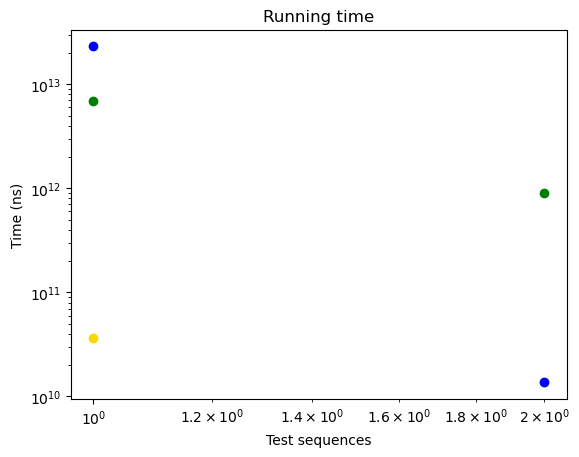
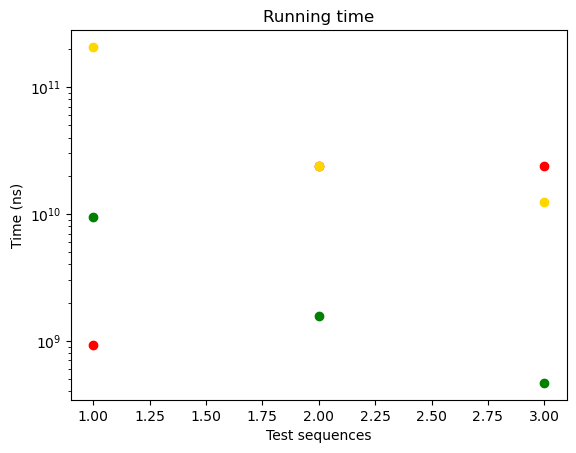
Updated test

diff --git a/test_sequences.py b/test_sequences.py
@@ -1,3 +1,4 @@
+# fibWord: Taking from https://www.geeksforgeeks.org/fibonacci-word/
 def fibWord(n):
     Sn_1 = "a"
     Sn = "ab"
@@ -10,7 +11,7 @@ def fibWord(n):
 
 
 def defined_test_sequences():
-    # size: 10946
+    # size: 6765
     test_seq = []
 
     a = ("aaaaaaaaaaaaaaaaaaaaaaaaaaaaaaaaaaaaaaaaaaaaaaaaaaaaaaaaaaaaaaaaaaaaaaaaaaaaaaaaaaaaaaaaaaaaaaaaaaaa"
@@ -33,65 +34,130 @@ def defined_test_sequences():
          "aaaaaaaaaaaaaaaaaaaaaaaaaaaaaaaaaaaaaaaaaaaaaaaaaaaaaaaaaaaaaaaaaaaaaaaaaaaaaaaaaaaaaaaaaaaaaaaaaaaa"
          "aaaaaaaaaaaaaaaaaaaaaaaaaaaaaaaaaaaaaaaaaaaaaaaaaaaaaaaaaaaaaaaaaaaaaaaaaaaaaaaaaaaaaaaaaaaaaaaaaaaa"
          "aaaaaaaaaaaaaaaaaaaaaaaaaaaaaaaaaaaaaaaaaaaaaaaaaaaaaaaaaaaaaaaaaaaaaaaaaaaaaaaaaaaaaaaaaaaaaaaaaaaa"
-         "aaaaaaaaaaaaaaaaaaaaaaaaaaaaaaaaaaaaaaaaaaaaaaaaaaaaaaaaaaaaaaaaaaaaaaaaaaaaaaaaaaaaaaaaaaaaaaaaaaaa"
-         "aaaaaaaaaaaaaaaaaaaaaaaaaaaaaaaaaaaaaaaaaaaaaaaaaaaaaaaaaaaaaaaaaaaaaaaaaaaaaaaaaaaaaaaaaaaaaaaaaaaa"
-         "aaaaaaaaaaaaaaaaaaaaaaaaaaaaaaaaaaaaaaaaaaaaaaaaaaaaaaaaaaaaaaaaaaaaaaaaaaaaaaaaaaaaaaaaaaaaaaaaaaaa"
-         "aaaaaaaaaaaaaaaaaaaaaaaaaaaaaaaaaaaaaaaaaaaaaaaaaaaaaaaaaaaaaaaaaaaaaaaaaaaaaaaaaaaaaaaaaaaaaaaaaaaa"
-         "aaaaaaaaaaaaaaaaaaaaaaaaaaaaaaaaaaaaaaaaaaaaaaaaaaaaaaaaaaaaaaaaaaaaaaaaaaaaaaaaaaaaaaaaaaaaaaaaaaaa"
-         "aaaaaaaaaaaaaaaaaaaaaaaaaaaaaaaaaaaaaaaaaaaaaaaaaaaaaaaaaaaaaaaaaaaaaaaaaaaaaaaaaaaaaaaaaaaaaaaaaaaa"
-         "aaaaaaaaaaaaaaaaaaaaaaaaaaaaaaaaaaaaaaaaaaaaaaaaaaaaaaaaaaaaaaaaaaaaaaaaaaaaaaaaaaaaaaaaaaaaaaaaaaaa"
-         "aaaaaaaaaaaaaaaaaaaaaaaaaaaaaaaaaaaaaaaaaaaaaaaaaaaaaaaaaaaaaaaaaaaaaaaaaaaaaaaaaaaaaaaaaaaaaaaaaaaa"
-         "aaaaaaaaaaaaaaaaaaaaaaaaaaaaaaaaaaaaaaaaaaaaaaaaaaaaaaaaaaaaaaaaaaaaaaaaaaaaaaaaaaaaaaaaaaaaaaaaaaaa"
-         "aaaaaaaaaaaaaaaaaaaaaaaaaaaaaaaaaaaaaaaaaaaaaaaaaaaaaaaaaaaaaaaaaaaaaaaaaaaaaaaaaaaaaaaaaaaaaaaaaaaa"
-         "aaaaaaaaaaaaaaaaaaaaaaaaaaaaaaaaaaaaaaaaaaaaaaaaaaaaaaaaaaaaaaaaaaaaaaaaaaaaaaaaaaaaaaaaaaaaaaaaaaaa"
-         "aaaaaaaaaaaaaaaaaaaaaaaaaaaaaaaaaaaaaaaaaaaaaaaaaaaaaaaaaaaaaaaaaaaaaaaaaaaaaaaaaaaaaaaaaaaaaaaaaaaa"
-         "aaaaaaaaaaaaaaaaaaaaaaaaaaaaaaaaaaaaaaaaaaaaaaaaaaaaaaaaaaaaaaaaaaaaaaaaaaaaaaaaaaaaaaaaaaaaaaaaaaaa"
-         "aaaaaaaaaaaaaaaaaaaaaaaaaaaaaaaaaaaaaaaaaaaaaaaaaaaaaaaaaaaaaaaaaaaaaaaaaaaaaaaaaaaaaaaaaaaaaaaaaaaa"
-         "aaaaaaaaaaaaaaaaaaaaaaaaaaaaaaaaaaaaaaaaaaaaaaaaaaaaaaaaaaaaaaaaaaaaaaaaaaaaaaaaaaaaaaaaaaaaaaaaaaaa"
-         "aaaaaaaaaaaaaaaaaaaaaaaaaaaaaaaaaaaaaaaaaaaaaaaaaaaaaaaaaaaaaaaaaaaaaaaaaaaaaaaaaaaaaaaaaaaaaaaaaaaa"
-         "aaaaaaaaaaaaaaaaaaaaaaaaaaaaaaaaaaaaaaaaaaaaaaaaaaaaaaaaaaaaaaaaaaaaaaaaaaaaaaaaaaaaaaaaaaaaaaaaaaaa"
-         "aaaaaaaaaaaaaaaaaaaaaaaaaaaaaaaaaaaaaaaaaaaaaaaaaaaaaaaaaaaaaaaaaaaaaaaaaaaaaaaaaaaaaaaaaaaaaaaaaaaa"
-         "aaaaaaaaaaaaaaaaaaaaaaaaaaaaaaaaaaaaaaaaaaaaaaaaaaaaaaaaaaaaaaaaaaaaaaaaaaaaaaaaaaaaaaaaaaaaaaaaaaaa"
-         "aaaaaaaaaaaaaaaaaaaaaaaaaaaaaaaaaaaaaaaaaaaaaaaaaaaaaaaaaaaaaaaaaaaaaaaaaaaaaaaaaaaaaaaaaaaaaaaaaaaa"
-         "aaaaaaaaaaaaaaaaaaaaaaaaaaaaaaaaaaaaaaaaaaaaaaaaaaaaaaaaaaaaaaaaaaaaaaaaaaaaaaaaaaaaaaaaaaaaaaaaaaaa"
-         "aaaaaaaaaaaaaaaaaaaaaaaaaaaaaaaaaaaaaaaaaaaaaaaaaaaaaaaaaaaaaaaaaaaaaaaaaaaaaaaaaaaaaaaaaaaaaaaaaaaa"
-         "aaaaaaaaaaaaaaaaaaaaaaaaaaaaaaaaaaaaaaaaaaaaaaaaaaaaaaaaaaaaaaaaaaaaaaaaaaaaaaaaaaaaaaaaaaaaaaaaaaaa"
-         "aaaaaaaaaaaaaaaaaaaaaaaaaaaaaaaaaaaaaaaaaaaaaaaaaaaaaaaaaaaaaaaaaaaaaaaaaaaaaaaaaaaaaaaaaaaaaaaaaaaa"
-         "aaaaaaaaaaaaaaaaaaaaaaaaaaaaaaaaaaaaaaaaaaaaaaaaaaaaaaaaaaaaaaaaaaaaaaaaaaaaaaaaaaaaaaaaaaaaaaaaaaaa"
-         "aaaaaaaaaaaaaaaaaaaaaaaaaaaaaaaaaaaaaaaaaaaaaaaaaaaaaaaaaaaaaaaaaaaaaaaaaaaaaaaaaaaaaaaaaaaaaaaaaaaa"
-         "aaaaaaaaaaaaaaaaaaaaaaaaaaaaaaaaaaaaaaaaaaaaaaaaaaaaaaaaaaaaaaaaaaaaaaaaaaaaaaaaaaaaaaaaaaaaaaaaaaaa"
-         "aaaaaaaaaaaaaaaaaaaaaaaaaaaaaaaaaaaaaaaaaaaaaaaaaaaaaaaaaaaaaaaaaaaaaaaaaaaaaaaaaaaaaaaaaaaaaaaaaaaa"
-         "aaaaaaaaaaaaaaaaaaaaaaaaaaaaaaaaaaaaaaaaaaaaaaaaaaaaaaaaaaaaaaaaaaaaaaaaaaaaaaaaaaaaaaaaaaaaaaaaaaaa"
-         "aaaaaaaaaaaaaaaaaaaaaaaaaaaaaaaaaaaaaaaaaaaaaaaaaaaaaaaaaaaaaaaaaaaaaaaaaaaaaaaaaaaaaaaaaaaaaaaaaaaa"
-         "aaaaaaaaaaaaaaaaaaaaaaaaaaaaaaaaaaaaaaaaaaaaaaaaaaaaaaaaaaaaaaaaaaaaaaaaaaaaaaaaaaaaaaaaaaaaaaaaaaaa"
-         "aaaaaaaaaaaaaaaaaaaaaaaaaaaaaaaaaaaaaaaaaaaaaaaaaaaaaaaaaaaaaaaaaaaaaaaaaaaaaaaaaaaaaaaaaaaaaaaaaaaa"
-         "aaaaaaaaaaaaaaaaaaaaaaaaaaaaaaaaaaaaaaaaaaaaaaaaaaaaaaaaaaaaaaaaaaaaaaaaaaaaaaaaaaaaaaaaaaaaaaaaaaaa"
-         "aaaaaaaaaaaaaaaaaaaaaaaaaaaaaaaaaaaaaaaaaaaaaaaaaaaaaaaaaaaaaaaaaaaaaaaaaaaaaaaaaaaaaaaaaaaaaaaaaaaa"
-         "aaaaaaaaaaaaaaaaaaaaaaaaaaaaaaaaaaaaaaaaaaaaaaaaaaaaaaaaaaaaaaaaaaaaaaaaaaaaaaaaaaaaaaaaaaaaaaaaaaaa"
-         "aaaaaaaaaaaaaaaaaaaaaaaaaaaaaaaaaaaaaaaaaaaaaaaaaaaaaaaaaaaaaaaaaaaaaaaaaaaaaaaaaaaaaaaaaaaaaaaaaaaa"
-         "aaaaaaaaaaaaaaaaaaaaaaaaaaaaaaaaaaaaaaaaaaaaaaaaaaaaaaaaaaaaaaaaaaaaaaaaaaaaaaaaaaaaaaaaaaaaaaaaaaaa"
-         "aaaaaaaaaaaaaaaaaaaaaaaaaaaaaaaaaaaaaaaaaaaaaaaaaaaaaaaaaaaaaaaaaaaaaaaaaaaaaaaaaaaaaaaaaaaaaaaaaaaa"
-         "aaaaaaaaaaaaaaaaaaaaaaaaaaaaaaaaaaaaaaaaaaaaaaaaaaaaaaaaaaaaaaaaaaaaaaaaaaaaaaaaaaaaaaaaaaaaaaaaaaaa"
-         "aaaaaaaaaaaaaaaaaaaaaaaaaaaaaaaaaaaaaaaaaaaaaaaaaaaaaaaaaaaaaaaaaaaaaaaaaaaaaaaaaaaaaaaaaaaaaaaaaaaa"
-         "aaaaaaaaaaaaaaaaaaaaaaaaaaaaaaaaaaaaaaaaaaaaaaaaaaaaaaaaaaaaaaaaaaaaaaaaaaaaaaaaaaaaaaaaaaaaaaaaaaaa"
-         "aaaaaaaaaaaaaaaaaaaaaaaaaaaaaaaaaaaaaaaaaaaaaaaaaaaaaaaaaaaaaaaaaaaaaaaaaaaaaaaaaaaaaaaaaaaaaaaaaaaa"
-         "aaaaaaaaaaaaaaaaaaaaaaaaaaaaaaaaaaaaaaaaaaaaaaaaaaaaaaaaaaaaaaaaaaaaaaaaaaaaaaaaaaaaaaaaaaaaaaaaaaaa"
-         "aaaaaaaaaaaaaaaaaaaaaaaaaaaaaaaaaaaaaaaaaaaaaaaaaaaaaaaaaaaaaaaaaaaaaaaaaaaaaaaaaaaaaaaaaaaaaaaaaaaa"
-         "aaaaaaaaaaaaaaaaaaaaaaaaaaaaaaaaaaaaaaaaaaaaaaaaaaaaaaaaaaaaaaaaaaaaaaaaaaaaaaaaaaaaaaaaaaaaaaaaaaaa"
-         "aaaaaaaaaaaaaaaaaaaaaaaaaaaaaaaaaaaaaaaaaaaaaaaaaaaaaaaaaaaaaaaaaaaaaaaaaaaaaaaaaaaaaaaaaaaaaaaaaaaa"
-         "aaaaaaaaaaaaaaaaaaaaaaaaaaaaaaaaaaaaaaaaaaaaaaaaaaaaaaaaaaaaaaaaaaaaaaaaaaaaaaaaaaaaaaaaaaaaaaaaaaaa"
-         "aaaaaaaaaaaaaaaaaaaaaaaaaaaaaaaaaaaaaaaaaaaaaaaaaaaaaaaaaaaaaaaaa"
-        )
+         )
     test_seq.append(a)
 
-    fibo = fibWord(18)
-    print(len(fibo))
-    print(len(a))
+    fibo = fibWord(19)
     test_seq.append(fibo)
+
+    rand = ("GGTGTACTCAGCTCACTGTCTTCCCCAAAACCCGGATCGATGATGTCTTTTGAACGAGGTGGACGGATGCTGGCAGCAGCTGGGGGCACCCGCTGAGTTT"
+            "TGATGGCCCGGAACCCGGCAAGAGGTGGACGGATGCTGGCAGCAGCTGCCGTGCTCGTCTCTCTCCTGCCAATGCTTGCCCGGCATACAGAGGTGAACCC"
+            "AGCATCACCGGCGAATGGCATTGTCTTCCCCAAAACCCGGACGGCAAGAGGTGGACGGATGCTGGCAGCAGCTGCCGTAACAAGCCCGCTGAGTTTACGC"
+            "GTCGTGCTTGTCGGACAGGCAGGAGAACCAGAGGTGGACGGATGCTGGCAGCAGCTGCCGTGCGGCTCCCGTGGTGACGTCAGGCGGGGGCACCCGCCGC"
+            "GCTGCCGTGCGAATCCCCCATGTTGTACTCAGCTCACCGGGGGCATTGCTCCCGTGGTGACCCTGATTTGTTGTCCGTGAACCATCGAGTCTTTCACCGC"
+            "CATCACCGGCGAATGGCATTGTCTTCCCAGCAGCTGCCGTGCGAATCCCCCATGTTGGAAGGATCATTGATGAGACCGTGGAATAAACACGGGAATCTTG"
+            "TTGATGGCCCGGAACCCGGCAAGAGGTGGACGGATGCTGGCAGCAGCTGCCGTGCGAATCCCCCATGTTCTTTTGAACGCAAGTTGTCCATGGCGCTGAC"
+            "ATCCGGAGGACCGGTGTACTCAGCTCACCGGGGGCATTTGGCTCTTTGCATCGGATGGAAGGACGCAGCGAAATGCGATCGGATGTGAAAGATTGGCCCA"
+            "GATGGCCCGGAACCCGGCAAGAGGTGGACGGATGCTGGCAGCAGCTGCCGTGCGCGCAAACGGGAATCTTGGCTCTTTGCATCGGATGGAAGGACGCAGC"
+            "GAAATGCGATAAGTGGTGTGAATTGCAAGATCCCGTGAACCATCGAGTCCCCAGGTCAGGCGGGGGCACCCGCTGATGGACGGATGCTGGCAGCAGCTGC"
+            "CGGAGCGGCGGCGTGCTGTCGCGTGCCCAATGAATTTTGATGACTCTCGCAAACGGGAATCTTGGCTCTTTGCATCGGATGGAAGGACGCAGCAACCCGG"
+            "GGTTTCCGTAGGTGAACCTGCGGAAGGATCATTGATGAGACCGTGGAATAAACGATCGAGTGAATCCGGAGGACCGGTTTTGCATCGGATGGAAGGACGC"
+            "AACGCAAGTTGCGCCCGAGGCCATCAGGCTAAGGGCACGCCTGCTTGGGCGTCGCGCTTCGTCTCTCTCCTGCCAATGCTTGCCCGGCATACATCTTGGC"
+            "GACCCTGATTTGTTGTTGGGCCGCCTCGGGAGCGTCCATGGCGGGTTTGAACCTCTAGCCCGGCGCAGTTTGGGCGCCAAGCGTCGCGCTTCGTCTCTCT"
+            "CTGCTTGGGCGTCGCGCTTCGTCTCTCTCCTGCCAATGCTTGCCCGGCATACAGCCAGGCCGGCGTGGTGCGGATGTGAAAGATTGGCCCCTTGTGCCTA"
+            "GGTGCTTGTGCCTAGGTGCGGCGGGTCCAAGAGCTGGTGTTTTGATGGCCCGGAACCCGGCAAGAGGTGGACGGGCGGAAGGATCATTGAACCCGTGCCA"
+            "GGGCGTCGCGCTTCGTCTCTCTCCTGCCAATGCTTGCCCGGCATACAGCCAGGCCGGCGTGGTGCGGATGTGAAAGATTGGCCCCTTGTGCCTAGGTGCG"
+            "GCGGGTCCAAGAGCTAATTGCAAGATCCCGTGAACCATCGAGTCTTTTGAACGCAAGTTGCGCCCGAGGCCATCAGGCTAAGGGCCGTAACAAGGTTTCC"
+            "TGTCTTCCCCAAAACCCGGAGCGGCGGCGTGCTGTCGCGTGCCCAATGAATTTTGATGACTCTCGCAAACGGGGTCTCTCTCCTGCCAATGCTTGCCCGG"
+            "GGTGTGAATTGCAAGATCCCGTCCCCAAAACCCGGAGCGGCGGCGTGCTGTCGCGTGACGGATGCTGGCAGCAGCTGCCGTGCGAATCCATGGAGGGCGG"
+            "TCTTTGCATCGGATGGAAGGACGCAGCGAAATGCGATAAGTGGTGTGAATTGCAAGATCCCGTGGCGTGGTGCGGATGTGAAAGATTGGCCCCTTGTGCC"
+            "TAGGTGTGGCATTGTCTTCCCCAAAACCCGGAGCGGCGGCGTGCTGTCGCGTGCCCAATGAATTTTGATGACTCTCGCAAACGGGAATCCACGCCTGCTT"
+            "GGGCGTCGCGCTTCGTCTCTCTCCTGCCAATGCTTGCCCGGCATACAGCCAGGCCGGCGTGATAAACGATCGAGTGGCGAATGGCATTGTCTTCGGGAAT"
+            "TGGCCCCTTGTGCCTAGGTGCGGCGGGTCCAAGAGCTGGTGTTTTGATGGCCCGGAACCCGGCAAGAGGTGGACGGATGCTGGCAGCAGCTGCCGTGCGA"
+            "ATCCCCCATGTTGTCGTGCTTGTCGGACAGGCAGGAGAACCCTTCCGAACCCCAATGGAATCTTGGCTCTTTGCATCGGATGGAAGGACGCAGCGAAATG"
+            "CGATAAGTGGTGTGAATTGCAAGATCCCGTGGTCCAAGAGCTGGTGTTTTGATGGCCCGGAACCCGGCAAGAGGTGGACGGATGCTGGCAGCAGCTGCCG"
+            "TGCGAATCCCCGCCATTCGGATGTGACCCCAGGTCAGGCGGGGGCACCCGCTGAGTTTACGCGCGCCCGAGGCCATCAGGCTAAGGGCACGCCTGCTTGG"
+            "GCGTCGCGCTTCGTCTCTCTCCTGCCAATGCTTGCCCGGCATGCGGCGGCGTGCTGTCGCGTGCCCAATGAATTTTGATGACTCTCGCAAACGGGAATCT"
+            "TGGCTCTTTGCATTGGTGACCCTGATTTGTTGTTGGGCCGCCTCGGGAGCGTGGACGGATGCTGGCAGCAGCTGCCGTGCGAATCCCCCATGTTGTCGTG"
+            "CTTGTCGGACAGGCAGGAGAACCCCTTTTGAACGCAAGTTGCGCCCGAGGCCATCAGGCTAAGGGCACGCCTGCTTGGGCGTCGCGCTTCGTCTCTCTCC"
+            "TGCCAATGCTGCCTCGGGAGCGTCCATGGCGGGTTTGAACCTCTAGCCCGGCGCAGTTTGGGCGCCAAGCCATATGAAAGCGGAACCCGGCAAGAGGTGG"
+            "ACGGATGCTGGCAGCAGCTGCCGTGCGAATCCCCCATGTTGTCGTCGCGCTTCGTCTCTCTCCTGCCAATGCTTGCCCGGCATACAGCCAGGCCGGCGTG"
+            "GTGCGGATGTGAAAGATTGGCCCCTTGTGCCTGCAAGAGGTGGACGGATGCTGGCAGCAGCTGCCGTGCGAATCCCCCATGTTGTCGTGCTTGTCGGACA"
+            "GTCCGTAGGTGAACCTGCGGAAGGATCATTGATGAGACCGTGGAATAAACGATCGAGTGAATCCGGAGGACCGGTGTACTCAGCTCACCGGGGGCATTGC"
+            "TCCCGTGGTGACCCTGATTTGCTCTAGCCCGGCGCAGTTTGGGCGCCAAGCCATATGAAAGCATCACCGGCGAATGGCATTGTCTTCCCCAAAACCCGGA"
+            "GCGGCGGCGTGCTGTCGCGTGCTTTTGATGACTCTCGCAAACGGGAATCTTGGCTCTTTGCATCGGATGGAAGGACGCAGCGAAATGCGATAAGTGGTGT"
+            "GAATTGCAAGATCCCGGCCATCAGGCTAAGGGCACGCCTGCTTGGGCGTCGCGCTTCGTCTCTCTCCTGCCAATGCTTGCCCGGCATACAGCCAGGCCGG"
+            "CGTGGTGCGGATGTGAAAGATTGGTGCTGGCAGCAGCTGCCGTGCGAATCCCCCATGTTGTCGTGCTTGTCGGACAGGCAGGAGAACCCTTCCGAACCCC"
+            "AATGGAGGCAGGTCAGGCGGGGGCACCCGCTGAGTTTACGCAGCATCACCGGCGAATGGCATTGTCTTCCCCAAAACCCGGAGCGGCGGCGTGCTGTCGC"
+            "GTGCCCAATGAAAGGTGAACCTGCGGAAGGATCATTGATGAGACCGTGGAATAAACGATCGAGTGAATCCGGAGGACCGGTGTACTCAGCTCACCGGGGG"
+            "CATTGCTCCCGTGGTGACCCTGATTTGTTGTTGGGCCGCCTCGGGAGCGTCCATGCGCCCGAGGCCATCAGGCTAAGGGCACGCCTGCTTGGGCGTCGCG"
+            "CTTCGTCTCTCTCCTGCCAATGCTTGCCGGTGCGGCGGGTCCAAGAGCTGGTGTTTTGATGGCCCGGAACCCGGCAAGAGGTGGACGGATGCTGGCAGCA"
+            "GCTGCCGTGCGAATTGATGGCCCGGAACCCGGCAAGAGGTGGACGGATGCTGGCAGCAGCTGCCGTGCGAATCCCCCATGTTGTCAAACGGGATTGGGCG"
+            "TCGCGCAGCCATATGAAAGCATCACCGGCGAATGGCATTGTCTTCCCCAAAACCCGGAGCGGCGGCGTGCTGTCGCGTGCCCAATGAATTTTGATGACTC"
+            "TCGCAAACGGGAATCTTGGCTCTTTGCATCGGATGGAAGGACGCAGGAACCATCGAGTCTTTTGAACGCAAGTTGCGCCCGAGGCCATCAGGCTAAGGGC"
+            "ACGCCTGCTTGGGCGTCGCGCTTCGTCTCTCTCCTGCCAATGCTTGCCCGGCATACAGCCAGGCCGGCGTGGTGCGGATGTGAAAGCAAGGTTTCCGTAG"
+            "GTGAACCTGCGGAAGGATCATTGATGAGACCGTGGAATAAACGATCGAGTGAATCCGGAGGACCGGTGTACTCAGCTCACCGGGGGCATTGCTCCCGTGG"
+            "TGACCCTGATTTGTTGTTGGGCCGCCTCGGGAGCGTCCATGGCATGCTGGCAGCAGCTGCCGTGCGAATCCCCCATGTTGTCGTGCTTGTCGGACAGGCA"
+            "GGAGAACCCTTCCGAACCATCGAGTCTTTTGAACGCAAGTTGCGCCCGAGGCCATCAGGCTAAGGGCACGCCTGCTTGGGCGTCGCGCTTCGTCTCTCTC"
+            "CTAGCCCGGCGCAGTTTGGGCGCCAAGCCATATGAAAGCATCACCGGCGAATGGCATTGTCTTCCCCAAAACCCGGAGCGGCGGCGTGCTGTCGCGTGCC"
+            "CAATGAATTTTGATGACTCTCGCAAACGGGAATCTTGGCTCATACAGCCAGGCCGGCGTGGTGCGGATGTGAAAGATTGGCCCCTTGTGCCTAGGTGCGG"
+            "CGGGTCCAAGAGCGTCCATGGCGGGTTTGAACCTCTAGCCCGGCGCAGTTTGGGCGCCAAGCCATATGAAAGCATCACCGGCGAATGGCATTGTCTTCCC"
+            "CAAAACCCGGAGCGGCGGCGTGCTGTCGCGTGCCCAATGAATTTTGATGACTCTCGCAAACGGGAATCTTGGCTCTTTGCTTCGTCTCTCTCCTGCCAAT"
+            "GCTTGCCCGGCATACAGCCAGGCCGGCGTGGTGCGGATGTGAAAGATGCAGCTGCCGTGCGAATCCCCCATGTTGTCGTGCTTGTCGGACAGGCAGGAGA"
+            "ACCCTTCCGAACCCCAATGCGTAACAAGGTTTCCGTAGGTGAACCTGCGGAAGGATCATTGATGAGACCGTGGAATAAACGATCGAGTGAATCCGGTCGT"
+            "GCTTGTCGGACAGGCAGGAGAACCCTTCCGAACCCCAATGGAGGGCGGTTGACCGCCATTCGGATGATTTTGATGACTCTCGCAAACGGGAATCTTGGCT"
+            "CTTTGCATCGGATGGAAGGACGCAGCGAAATGCGATAAGATCCCGTGAACCATCGAGTCTTTTGAACGCAAGTTGCGCCCGAGGCCATCAGGCTAAGGGC"
+            "ACGCCTGAGCTGGTGTTTTGATGGCCCGGAACCCGGCAAGAGGTGGACGGATGCTGGCAGCTGCCGTGCGAATCCCCCATGTTGTCGTGCTTGTCGGACA"
+            "GGCAGGAGAACCCTTCCGAACCCCAATGGACATGGCGGGTTTGAACCTCTAGCCCGGCGCAGTTTGGGCGCCAAGCCATATGAAAGCATCACCGGCGAAT"
+            "GAACCTGCGGAAGGATCATTGATGAGACCGTGGAATAAACGATCGAGTGAATCCGGAGGACCGGTGTACTCAGCTCACCGGGGGCACTGCCAATGCTTGC"
+            "CCGGCATACAGCCAGGCCGGCGTGGTGCGGATGTGAAAGATTGGCCCCTTGTGCCTGCAGCAGCTGCCGTGCGAATCCCCCATGTTGTCGTGCTTGTCGG"
+            "ACAGGCAGGAGAACCCTTCCGAACCCCAATGACCCGGAGCGGCGGCGTGCTGTGCCCAATGAATTTTGATGACTCTCGCAAACGGGAATCTTGGCTGCGG"
+            "TCTTTGCATCGGATGGAAGACCATCGAGTCTTTTGAACGCAAGTTGCGCCCGAGGCCATCAGGCTAAGGGCACGCCTGCTTGGGCGTCGCGCTTCGTCTC"
+            "TCTCCTGCCAATGCTTGCCCGGCATACAGCCAGGCCGGCGTGGTGCGGATGTGAAAGATTGGCCCCTTGTGCCTCGAATCCCCCATGTTGTCGTGCTTGT"
+            "CGGACAGGCAGCATTGATGAGACCGTGGAATAAACGATCGAGTGAATCCGGAGGACCGGTGTACTCAGCTCACCGGGGGCATCACCGGCGAATGGCATTG"
+            "TCTTCCCCAAAACCCGGAGCGGCGGCGTGCTGTCGCGTGCCCAATGAATTTTGATGACTCTCGCAAACGGGAATCTTGGCTCTTTGCATCGGATGGAAGG"
+            "ACGCAGCGAAATGCGATAAGTGGTGTGAATTGCAAGATGCAAGTTGCGCCCGAGGCCATCAGGCTAAGGGCACGCCTGCTTGGGCGTCGCGCTTCGTCTC"
+            "TCTCCTGCCAATGCTTGCCCGGCATACAGCCAGGCCGGCGTGGTGCGGATGTGAAGTGCCTAGGTGCGGCCATTGATGAGACCGTGGAATAAACGATCGA"
+            "GTGAATCCGGTCGTCTTTGCATCGGATGGAAGGACGCAGCGAAATGCGATAAGATCCCGTGAACCATCGAGTCTTTTGAATTGGTGCTGGCAGCAGCTGC"
+            "CGTGCGAATCCCCCATGTTGTCGTGCTTGTCGGACAGGCAGGAGAACCCTTCCGAACCCCCTTCGTCTCTCTCCTGCCAATGCTAGGCGGGGGCACCCGC"
+            "TGAGTTTACGCAGCATCACCGGCGAATGGCATTGTCTTCCCCAAAACCCGGAGCGGCGGCGTGCTGTCGCGCTGCCGTGCGAATTGAGAATTTTGATGAC"
+            "GTGCCCAATGAAAGGTGAACCTGCGGAAGGATCATTGATGAGACCGTGGAATAAACGATCGAGTGAATCCGGAGGACCGGTGTACTCAGCTCACCGGGGG"
+            "CATTGCTCCCGTGGTGACCCTGATTTGTTGTTGGGCCGCCTCGGGAGCGTCCATGCGCCCGAGGCCATCAGGCTAAGGGCACGCCTGCTTGGGCGTCGCG"
+            "CTTCGTCTCTCTCCTGCCAATGCTTGCCGGTGCGGCGGGTCCAAGAGCTGGTGTTTTGATGGCCCGGAACCCGGCAAGAGGTGGACGGATGCTGGCAGCA"
+            "AATGGAGGCAGGTCAGGCGGGGGCACCCGCTGAGTTTACGCAGCATCACCGGCGAATGGCATTGTCTTCCCCAAAACCCGGAGCGGCGGCGTGCTGTCGC"
+            "GTGCCCAATGAAAGGTGAACCTGCGGAAGGATCATTGATGAGACCGTGGAATAAACGATCGAGTGAATCCGGAGGACCGGTGTACTCAGCTCACCGGGGG"
+            "CATTGCTCCCGTGGTGACCCTGATTTGTTGTTGGGCCGCCTCGGGAGCGTCCATGCGCCCGAGGCCATCAGGCTAAGGGCACGCCTGCTTGGGCGTCGCG"
+            "GCTTGTCGGACAGGCAGGAGAACCCTTCCGAACCCCAATGGAGGGCGGTTGACCGCCATTCGGATGATTTTGATGACTCTCGCAAACGGGAATCTTGGCT"
+            "GGCGAATGGCATTGTCTTCCCCAAAACCCGGACGGCAAGAGGTGGACGGATGCTGGCAGCAGCTGCCGTAACAAGCCCGCTGAGTTTACGCGATGGCCCG"
+            "GAACCCGGCAAGAGGTGTGACTCTCGCAAACGGGAATCTTGGCTCTTTGCTTCGTCTCTCTCCTGCCAATCAAGAGGTGGACGGATGCTGGCAGCTGCCG"
+            "TGCACGCCTGAGCTGGTGTTTTGATGGCCCGGAACCCGGGAGACCGTGGAATAAACGATCGAGTGAATCCGGAGGACCGGTGTACTCAGCTCACCGGGGG"
+            "GCTTGCCCGGCATACAGCCAGGCCGGCGTGGTGCGGATGTGAAAGATGCAGCTGCCGTGCGAATCCCCCATGTTGTCGTGCTTGTCGGACAGGCAGGAGA"
+            "ACCCTTCCGAACCCCAATGCGTAACAAGGTTTCCGTAGGTGAACCTGCGGAAGGATCATTGATGAGACCGTGGAATAAACGATCGAGTGAATCCGGTCGT"
+            "GCTTGTCGGACAGGCAGGAGAACCCTTCCGAACCCCAATGGAGGGCGGTTGACCGCCATTCGGATGATTTTGATGACTCTCGCAAACGGGAATCTTGGCT"
+            "CTTTGCATCGGATGGAAGGACGCAGCGAAATGCGATAAGATCCCGTGAACCATCGAGTCTTTTGAACGCAAGTTGCGCCCGAGGCCATCAGGCTAAGGGC"
+            "GTCGTGCTTGTCGGACAGGCAGGAGAACCAGAGGTGGACGGATGCTGGCAGCAGCTGCCGTGCGGCTCCCGTGGTGACGTCAGGCGGGGGCACCCGCCGC"
+            "GCTGCCGTGCGAATCCCCCATGTTGTACTCAGCTCACCGGGGGCATTGCTCCCGTGGTGACCCTGATTTGTTGTCCGTGAACCATCGAGTCTTTCACCGC"
+            "CATCACCGGCGAATGGCATTGTCTTCCCAGCAGCTGCCGTGCGAATCCCCCATGTTGGAAGGATCATTGATGAGACCGTGGAATAAACACGGGAATCTTG"
+            "TTGATGGCCCGGAACCCGGCAAGAGGTGGACGGATGCTGGCAGCAGCTGCCGTGCGAATCCCCCATGTTCTTTTGAACGCAAGTTGTCCATGGCGCTGAC"
+            "ATCCGGAGGACCGGTGTACTCAGCTCACCGGGGGCATTTGGCTCTTTGCATCGGATGGAAGGACGCAGCGAAATGCGATCGGATGTGAAAGATTGGCCCA"
+            "CTCCTGCCAATGCTTGCCCGGCATGCGGCGGCGTGCTGTCGCGTGCCCAATGAATTTTGATGACTCTCGCAAACGGGAATCTTGGCTCTTTGCATTGGTG"
+            "ACCCTGATTTGTTGTTGGGCCGCCTCGGGAGCGTGGACGGATGCTGGCAGCAGCTGCCGTGCGAATCCCCCATGTTGTCGTGACGGATGCTGGCAGCAGC"
+            "TGCCGGGCGTGGTGCGGATGTGAAAGATTGGCCCCTTGTGCCTGGCCCCTTGTGCCTAGGTGCGGCGGGTCCAAGAGCTGGTGTTTTGATGGCCCGGAAC"
+            "CCGGCAAGAGGTGGACACCCGGATCGATGATGTCTTTTGAACGAGGTGGACGGATGCTGGCAGCAGCTGGGGGCACCCGCTGAGTTTTGATGGCCCGGAA"
+            "CCCGGCAAGAGGTGGACGGATGCTGGCAGCAGCTGCCGTGCTCGTCTCTCTCCTGCCAATGCTTGCCCGGCATACAGAGGTGAACCCTACTCAGCTCACC"
+            "AGCATCACCGGCGAATGGCATTGTCTTCCCCAAAACCCGGACGGCAAGAGGTGGACGGATGCTGGCAGCAGCTGCCGTAACAAGCCCGCTGAGTTTACGC"
+            "GTCGTGCTTGTCGGACAGGCAGGAGAACCAGAGGTGGACGGATGCTGGCAGCAGCTGCCGTGCGGCTCCCGTGGTGACGTCAGGCGGGGGCACCCGCCGC"
+            "TAGGTGTGGCATTGTCTTCCCCAAAACCCGGAGCGGCGGCGTGCTGTCGCGTGCCCAATGAATTTTGATGACTCTCGCAAACGGGAATCCACGCCTGCTT"
+            "GGGCGTCGCGCTTCGTCTCTCTCCTGCCAATGCTTGCCCGGCATACAGCCAGGCCGGCGTGATAAACGATCGAGTGGCGAATGGCATTGTCTTCGGGAAT"
+            "CTTGTCGGACAGGCAGGAGAACCCCTTTTGAACGCAAGTTGCGCCCGAGGCCATCAGGCTAAGGGCACGCCTGCTTGGGCGTCGCGCTTCGTCTCTCTCC"
+            "TGCCAATGCTGCCTCGGGAGCGTCCATGGCGGGTTTGAACCTCTAGCCCGGCGCAGTTTGGGCGCCAAGCCATATGAAAGCGGAACCCGGCAAGAGGTGG"
+            "AACGCAAGTTGCGCCCGAGGCCATCAGGCTAAGGGCACGCCTGCTTGGGCGTCGCGCTTCGTCTCTCTCCTGCCAATGCTTGCCCGGCATACATCTTGGC"
+            "GACCCTGATTTGTTGTTGGGCCGCCTCGGGAGCGTCCATGGCGGGTTTGAACCTCTAGCCCGGCGCAGTTTGGGCGCCAAGCGTCGCGCTTCGTCTCTCT"
+            "CTGCTTGGGCGTCGCGCTTCGTCTCTCTCCTGCCAATGCTTGCCCGGCATACAGCCAGGCCGGCGTGGTGCGGATGTGAAAGATTGGCCCCTTGTGCCTA"
+            "GGTGCTTGTGCCTAGGTGCGGCGGGTCCAAGAGCTGGTGTTTTGATGGCCCGGAACCCGGCAAGAGGTGGACGGGCGGAAGGATCATTGAACCCGTGCCA"
+            "CGGGTCCAAGAGCGTCCATGGCGGGTTTGAACCTCTAGCCCGGCGCAGTTTGGGCGCCAAGCCATATGAAAGCATCACCGGCGAATGGCATTGTCTTCCC"
+            "CAAAACCCGGAGCGGCGGCGTGCTGTCGCGTGCCCAATGAATTTTGATGACTCTCGCAAACGGGAATCTTGGCTCTTTGCTTCGTCTCTCTCCTGCCAAT"
+            "GCTTGCCCGGCATACAGCCAGGCCGGCGTGGTGATGACTCTCGCAAACGGGAATCTTGGCTCATACAGCCAGGCCGGCGTGGTGCGGATGTGAAAGATTG"
+            "GCCCCTTGTGCCTAGGTGCGGTGGGCCGCCTCGGGAGCGTGGACGGATGCTGGCAGCAGCTGCCGTGCGAATCCCCCATGTTGTCGTGCTTGTCGGACAG"
+            "GCAGGAGAACCCCTTTTGAACCGGAAGGATCATTGATGCCGGCGCA"
+            )
+    test_seq.append(rand)
+
+    print(len(a))
+    print(len(fibo))
+    print(len(rand))
 
     return test_seq
 
 
 defined_test_sequences()
-
-

diff --git a/main.py b/main.py
@@ -42,14 +42,13 @@ def main_time(algorithm: str, sequence: str):
             #print("Tandem Repeats found using the N^3 algorithm: " + str(TR))
             print("Number of Tandem Repeats found using the N^3 algorithm: " + str(len(TR)))
             final_time = end_time - start_time
-            #print("done with stupid")
+            print("done with stupid w. final time: " + str(final_time))
             return TR, final_time
         case "basic":
             tree_struct = NaiveSuffixTree(sequence)
             suffixtree, depthfirst_to_suffix, _ = tree_struct.build_tree(False, True)
             print("made tree for basic")
-            depthfirst_to_suffix_list = dict_to_list(depthfirst_to_suffix)
-            #suffixtree.print_tree()
+            #depthfirst_to_suffix_list = dict_to_list(depthfirst_to_suffix)
             start_time = time.time_ns()
             tandem_repeats = basic_stoye_gusfield(suffixtree, depthfirst_to_suffix, sequence, False)
             #tandem_repeats = basic_stoye_gusfield_loopy(suffixtree, depthfirst_to_suffix_list, sequence, False)
@@ -58,7 +57,7 @@ def main_time(algorithm: str, sequence: str):
             #print("Tandem Repeats found using the basic Stoye-Gusfield algorithm: " + str(tandem_repeats))
             print("Number of Tandem Repeats found using the basic Stoye-Gusfield algorithm: " + str(len(tr_lr)))
             final_time = end_time - start_time
-            print("done w. basic")
+            print("done with basic w. final time: " + str(final_time))
             return tr_lr, final_time
         case "optimized":
             tree_struct = NaiveSuffixTree(sequence)
@@ -74,6 +73,7 @@ def main_time(algorithm: str, sequence: str):
             print("Number of Tandem Repeats found using the optimized Stoye-Gusfield algorithm: " + str(len(tr_lr)))
             #print("Tandem Repeats found using the optimized Stoye-Gusfield algorithm: " + str(tandem_repeats))
             final_time = end_time - start_time
+            print("done with optimised w. final time: " + str(final_time))
             return tr_lr, final_time
 
 

diff --git a/test_running_time.py b/test_running_time.py
@@ -96,8 +96,8 @@ def test_running_time():
     plt.ylabel('Time (ns)')
     #plt.xscale('log')
     plt.yscale('log')
-    plt.scatter(count, slow_times, c='gold')
-    plt.scatter(count, basic_times, c='blue')
+    plt.scatter(count, slow_times, c='red')
+    plt.scatter(count, basic_times, c='gold')
     plt.scatter(count, optimised_times, c='green')
     plt.savefig('figures/running_time', bbox_inches='tight')
     plt.show()

diff --git a/depth.py b/depth.py
@@ -10,7 +10,7 @@
 from math import inf as inf
 from node import Node
 import sys
-sys.setrecursionlimit(7000)
+sys.setrecursionlimit(11000)
 
 
 # Name depth
